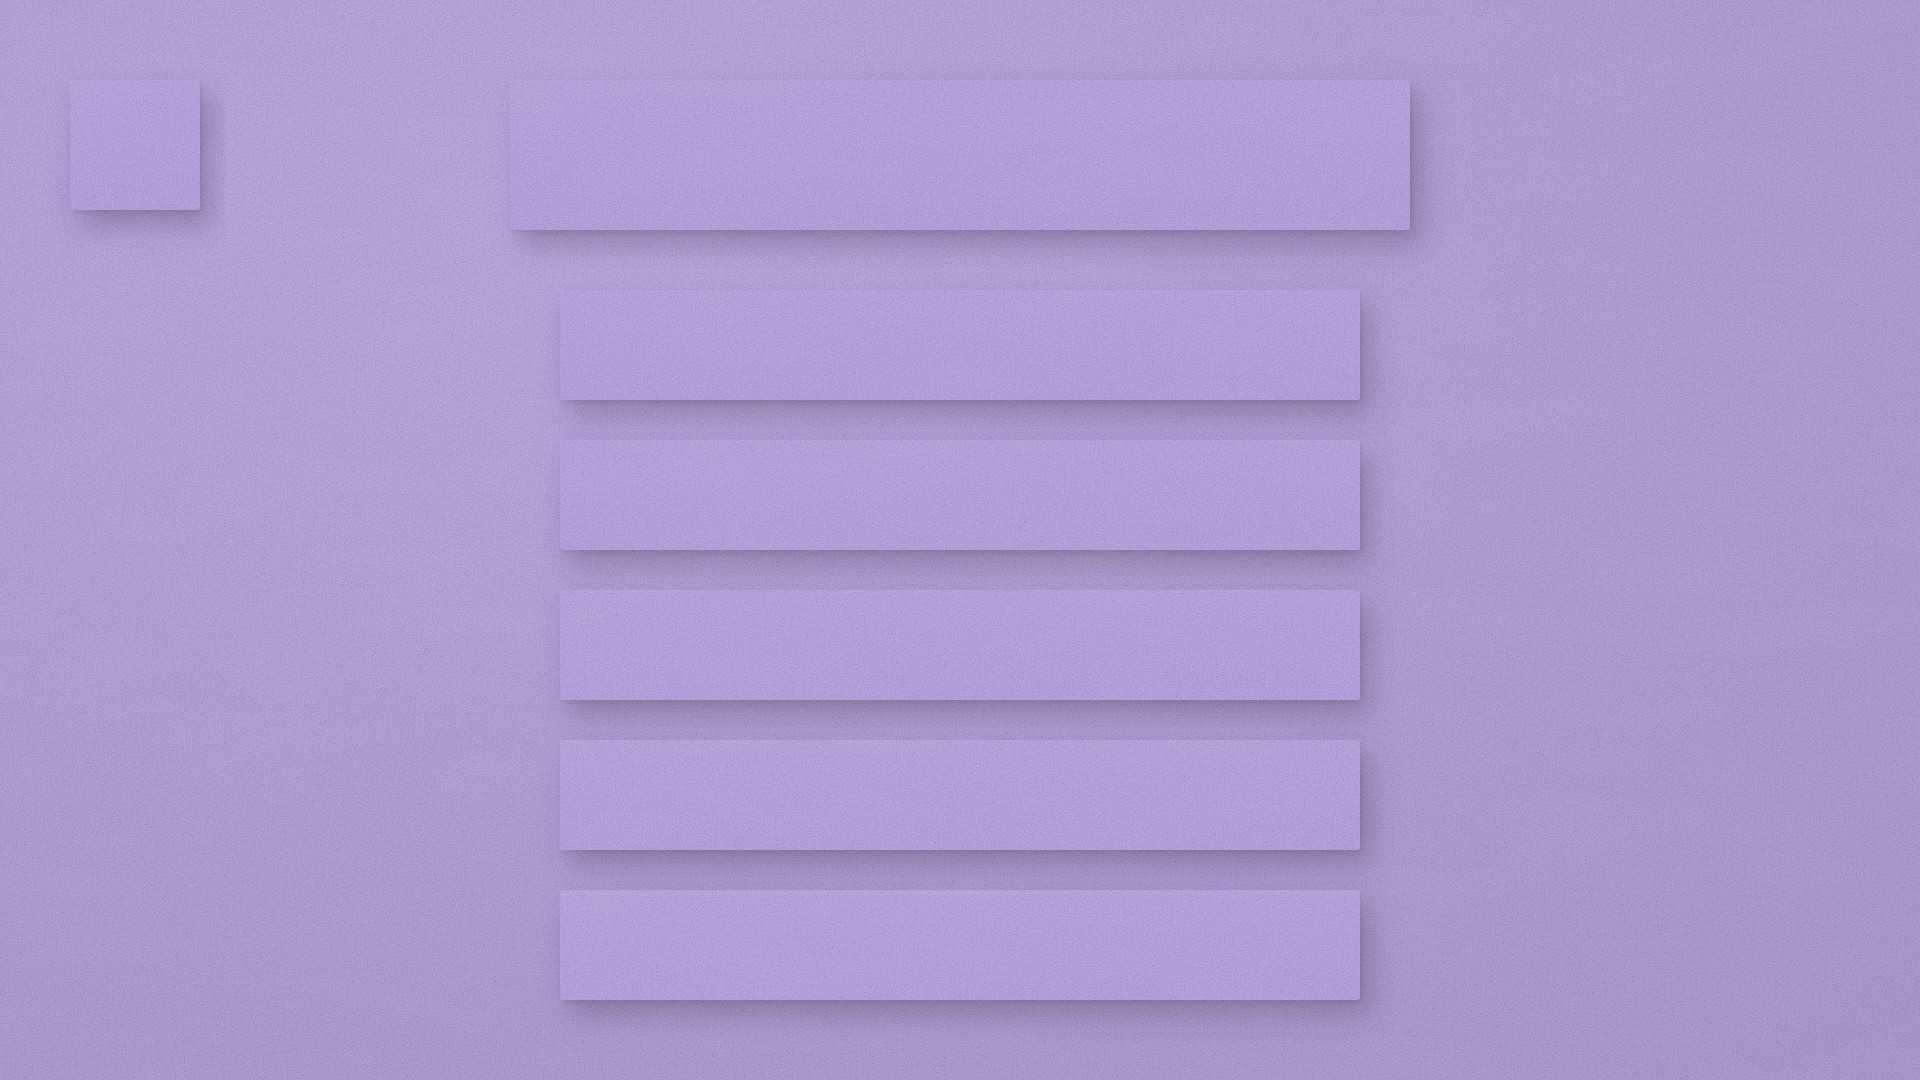
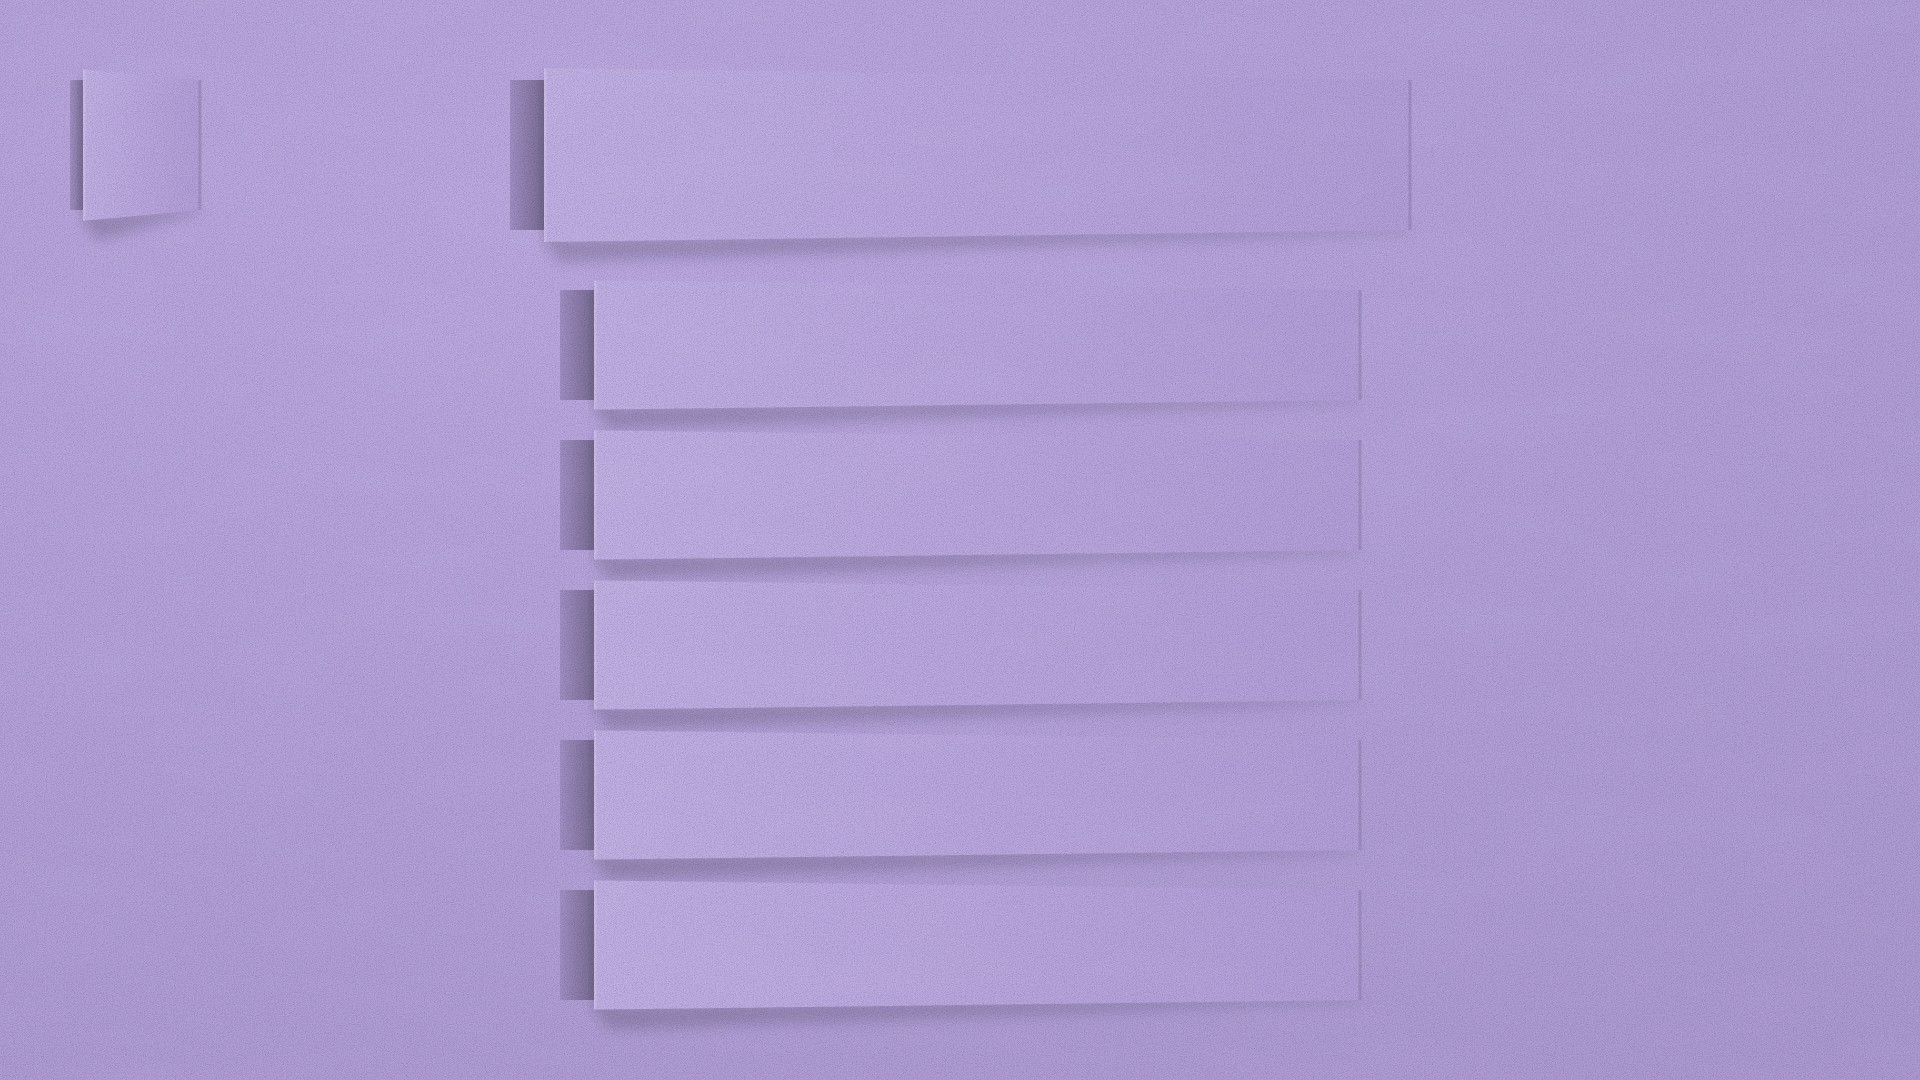
Menu backgrounds: label flaps pried up from the sheet, hinged on the right

diff --git a/README.md b/README.md
@@ -54,7 +54,7 @@ paper style but are measured in **metres** and carry named nodes, anchors and an
 | `models/buildings/skill_*`, `models/areas/town_page_grid` | Fold Town skill buildings in three tiers and the town page base (tile units) |
 | `models/rewards/`, `models/ui/`, `models/fx/` | Stars, badges, shield, trophy; paper button, panel and palm menu; confetti, scraps, crease, sparkle |
 | `models/scale.json` | City scale on the book page (`city_tile_on_book_m`) |
-| `2d/` | SVG + PNG: avatars (8 species × 5 missions), picture-password symbols, logo, app icon, favicon, game and mission icons, Devpost and social images. `2d/backgrounds/`: matte paper menu backgrounds (1920×1080 JPG + SVG) with lifted label slots in 3 layouts × 5 colours; slot rectangles in `menu_layout.json` |
+| `2d/` | SVG + PNG: avatars (8 species × 5 missions), picture-password symbols, logo, app icon, favicon, game and mission icons, Devpost and social images. `2d/backgrounds/`: matte paper menu backgrounds (1920×1080 JPG + SVG) with label flaps cut from the sheet and pried up (hinged on the right) in 3 layouts × 5 colours; slot rectangles in `menu_layout.json` |
 
 Technical guide: [`docs/FOLDLINGS.md`](docs/FOLDLINGS.md). Batch status: [`docs/CATALOG.md`](docs/CATALOG.md).
 Sheets: [foldlings](previews/sheet_foldlings.png), [variants](previews/sheet_foldlings_variants.png),
